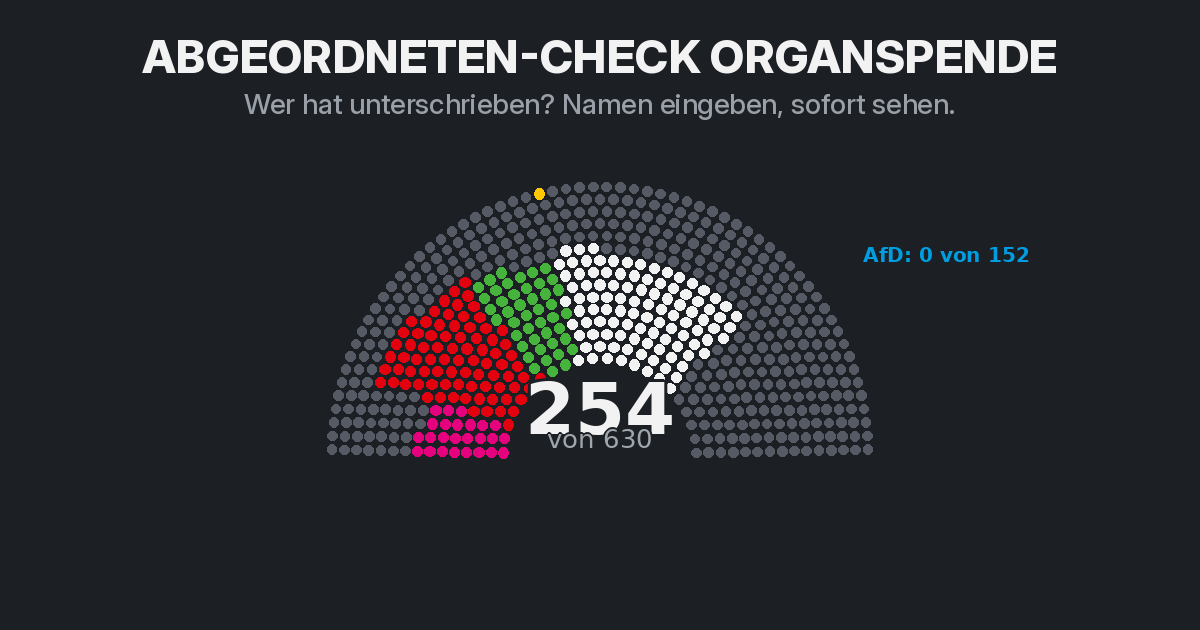
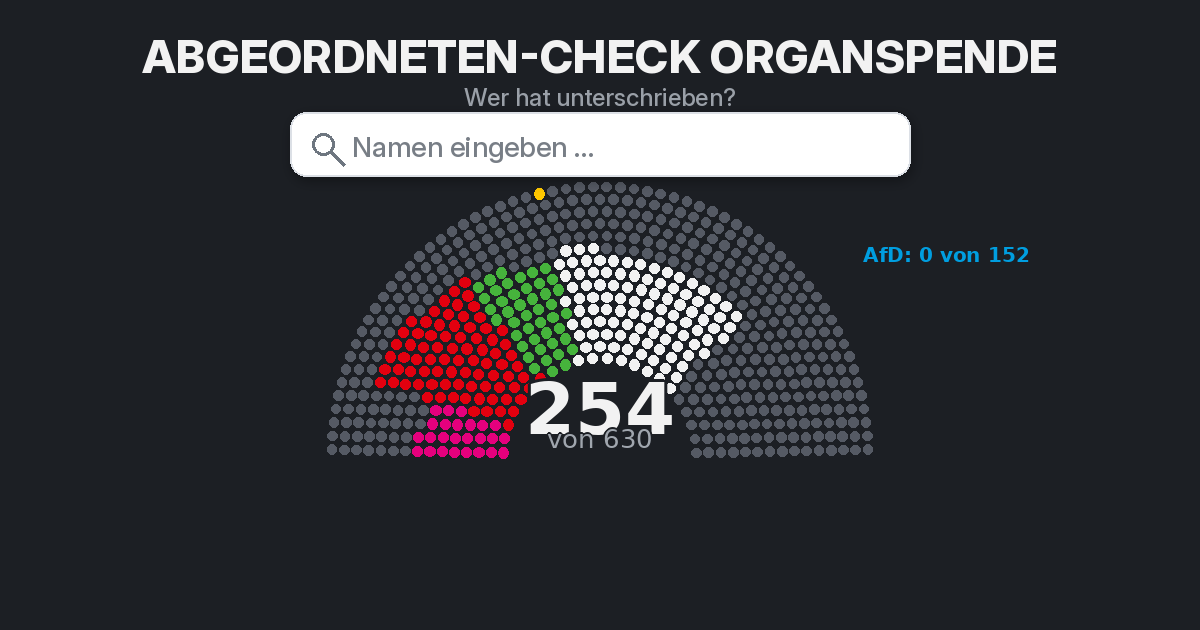
Vorschau mit Suchfeld und Cache-Buster v=4
Link-Karte zeigt ein sichtbares Namensfeld, damit der Klick
auf die Suche selbsterklärend wirkt.

Changed region(s): [[0.185, 0.1206, 0.8017, 0.3016]]

diff --git a/index.html b/index.html
@@ -7,12 +7,12 @@
 <meta name="description" content="254 von 630 Abgeordneten haben den Gesetzentwurf zur Widerspruchslösung (Drs. 21/7570) unterschrieben. Wer? Einen Namen eingeben und sofort sehen."/>
 <meta property="og:title" content="Abgeordneten-Check Organspende"/>
 <meta property="og:description" content="254 von 630 Abgeordneten haben den Gesetzentwurf zur Widerspruchslösung (Drs. 21/7570) unterschrieben. Wer? Einen Namen eingeben und sofort sehen."/>
-<meta property="og:image" content="https://franksteppat.github.io/organspende/vorschau.png?v=3"/>
+<meta property="og:image" content="https://franksteppat.github.io/organspende/vorschau.png?v=4"/>
 <meta property="og:url" content="https://franksteppat.github.io/organspende/"/>
 <meta name="twitter:card" content="summary_large_image"/>
 <meta name="twitter:title" content="Abgeordneten-Check Organspende"/>
 <meta name="twitter:description" content="254 von 630 Abgeordneten haben den Gesetzentwurf zur Widerspruchslösung (Drs. 21/7570) unterschrieben. Wer? Einen Namen eingeben und sofort sehen."/>
-<meta name="twitter:image" content="https://franksteppat.github.io/organspende/vorschau.png?v=3"/>
+<meta name="twitter:image" content="https://franksteppat.github.io/organspende/vorschau.png?v=4"/>
 <style>
 :root {
   --bg: #1C1F24;
